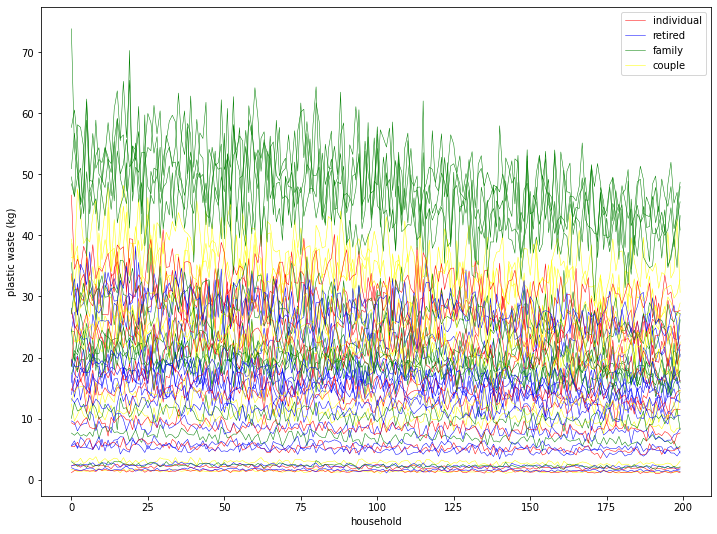
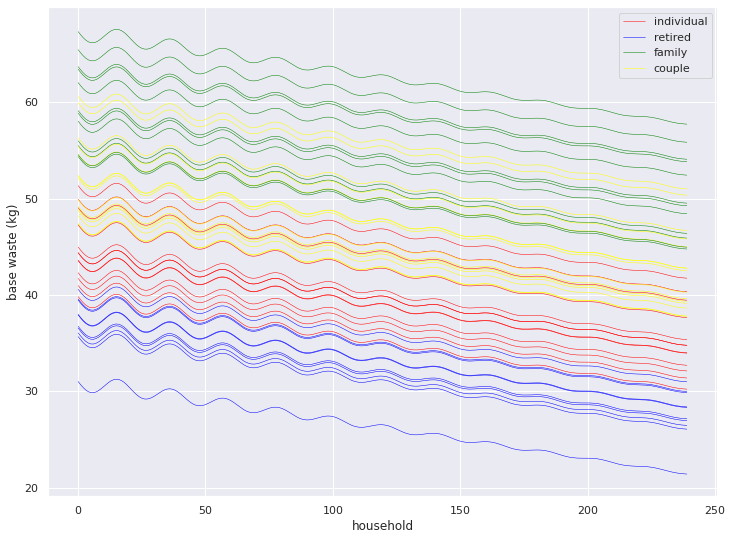
Getting the swivles

diff --git a/classes.py b/classes.py
@@ -1,5 +1,5 @@
 import matplotlib.pyplot as plt
-# from mesa import Agent 
+import seaborn as sns
 import numpy as np
 import random
 
@@ -13,40 +13,54 @@ class Household():
         self.perception = perception
         self.knowledge = knowledge
         
-    def determine_multiplier(self, h_type):
+    def starting_val(self, h_type):
+        base = 40
         if h_type == 'individual':
-            return 1
+            return 1*base + random.gauss(5, 3)
         elif h_type == 'retired':
-            return 0.8
+            return 0.8*base + random.gauss(5, 3)
+        # because household type 'retired' is supposed to have the least waste
         elif h_type == 'family':
-            return 1.4
+            return 1.4*base + random.gauss(5, 3) 
+        # household type 'family' is supposed to have the most waste
         elif h_type == 'couple':
-            return 1.2
+            return 1.2*base + random.gauss(5, 3)
         else:
             print('Do not know this household type.')
             
-    def base_waste(self, year, std_fraction = 0.1):
-        waste = 40 - 0.04*year - np.exp(-0.01*year)*np.sin(0.3*year)
-        mean = waste*self.determine_multiplier(self.type)
-        return np.random.normal(mean, abs(mean*std_fraction))
+    def calc_starting_val(self):
+        self.starting_value = self.starting_val(self.type)
+            
+    def calc_base_waste(self, t):
+        waste = self.starting_value - 0.04*t - np.exp(-0.01*t)*np.sin(0.3*t)
+        self.base_waste = waste
     
-    def plastic_waste_assign(self, year):
+    def calc_plastic_waste(self, t):
         # perception as we use it here is equal to plastic fraction
-        self.plastic_waste = self.base_waste(year)*self.perception 
+        self.plastic_waste = self.base_waste*self.perception 
     
 # create n_households Household objects and assign a base and plastic waste to each of them    
     
 n_households = 50
-year_range = 200
+time_range = 240
 household_types = ['individual', 'retired', 'family', 'couple']
 household_list = []
+base_waste_dict = {}
 plastic_waste_dict = {}
+
+random.seed(3)
+
 for i in range(n_households):
+    base_waste_dict[str(i)] = []
     plastic_waste_dict[str(i)] = []
 for i in range(n_households):
     household_list.append(Household(random.choice(household_types), np.random.uniform(0, 1), np.random.uniform(0, 1)))
-    for yr in range(year_range):
-        household_list[-1].plastic_waste_assign(yr)
+    household_list[-1].calc_starting_val()
+    for t in range(time_range):
+        household_list[-1].calc_base_waste(t)
+        household_list[-1].calc_plastic_waste(t)
+        
+        base_waste_dict[str(i)].append(household_list[-1].base_waste)
         plastic_waste_dict[str(i)].append(household_list[-1].plastic_waste)
         
 #%% color assignment for visualization below
@@ -62,6 +76,8 @@ def assign_color(household_type):
         return 'yellow'
     
 #%% household type distribution
+
+sns.set_theme()
 
 types = []
 for household in household_list:
@@ -81,7 +97,7 @@ from matplotlib.lines import Line2D
     
 fig, ax = plt.subplots(1, figsize = (12, 9))
 for i in range(n_households):
-    ax.plot(np.arange(0, year_range, step = 1), plastic_waste_dict[str(i)], linewidth = 0.5, 
+    ax.plot(np.arange(0, time_range, step = 1), base_waste_dict[str(i)], linewidth = 0.5, 
             c = assign_color(household_list[i].type))
     
 custom_lines = [Line2D([0], [0], color = 'red', linewidth = 0.5),
@@ -90,7 +106,7 @@ custom_lines = [Line2D([0], [0], color = 'red', linewidth = 0.5),
                 Line2D([0], [0], color = 'yellow', linewidth = 0.5)]
 
 ax.set_xlabel('household')
-ax.set_ylabel('plastic waste (kg)')
+ax.set_ylabel('base waste (kg)')
 ax.legend(custom_lines, ['individual', 'retired', 'family', 'couple'], loc = 'best')
 plt.savefig('images/household_waste.png', bbox_inches = 'tight')
 plt.show()
